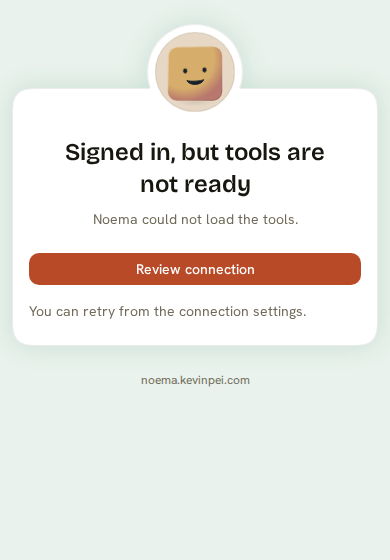
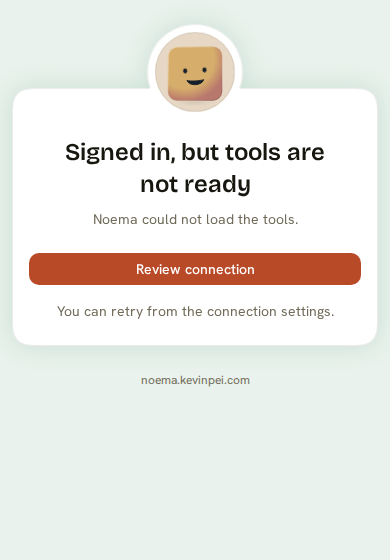
docs: center supporting notes in flow mocks

Changed region(s): [[0.0615, 0.5464, 0.8615, 0.5768]]

diff --git a/docs/plans/2026-09-04-supporting-ui/mocks.css b/docs/plans/2026-09-04-supporting-ui/mocks.css
@@ -50,7 +50,7 @@ h2 { font: var(--text-heading-4-weight) var(--text-heading-4-size)/var(--text-he
 /* Button visuals come from Astryx. This selector controls layout only. */
 .actions > .astryx-button, .decision-actions > .astryx-button { width: 100%; min-width: 0; }
 .decision-actions { display: grid; grid-template-columns: 1fr 1fr; gap: var(--spacing-2); }
-.note { color: var(--muted-foreground); }
+.note { color: var(--muted-foreground); text-align: center; text-wrap: pretty; }
 .status { display: flex; align-items: center; gap: var(--spacing-3); padding: var(--spacing-4); background: var(--surface-sunken); border-radius: var(--radius-element); }
 .status.success { background: var(--noema-pine-50); color: var(--noema-pine-700); }
 .status.error { background: var(--noema-red-100); color: var(--noema-red-700); }

diff --git a/docs/plans/2026-09-04-supporting-ui/validation.md b/docs/plans/2026-09-04-supporting-ui/validation.md
@@ -35,6 +35,7 @@ Scope: the saved design gallery. These results do not certify the production flo
 - One parent drop shadow followed the combined silhouette. The avatar and card had no separate box shadows.
 - The exposed avatar arc used the same one-pixel `border-subtle` border as the card. Its lower arc stayed hidden.
 - Titles, introductions, and setup steps were centered beneath the avatar and used `text-wrap: pretty`.
+- Standalone supporting notes were centered and used `text-wrap: pretty`, including the Codex sign-in continuation note.
 - All 33 subheadings fit one line at desktop, 390-pixel, and 320-pixel preview widths with the default text size.
 - Consent warnings and recovery instructions remained explicit. Narrow layouts and larger text can still wrap naturally.
 - Action controls used markup rendered from Astryx Button, with its default padding, 32-pixel height, and Noema theme.

diff --git a/docs/plans/2026-09-04-supporting-ui/README.md b/docs/plans/2026-09-04-supporting-ui/README.md
@@ -52,6 +52,7 @@ Use the existing setup frame, connection surfaces, and Astryx controls during im
 - Center the avatar and heading group, including the title, introduction, and setup step. Keep form content left aligned.
 - Keep subheadings to one short sentence that fits one line at the normal card width.
 - Put necessary instructions and consequences beside their controls. Keep consent warnings explicit.
+- Center standalone supporting notes, including the text below action buttons. Keep field labels and detailed form content left aligned.
 - Use `text-wrap: pretty` for centered text. Allow wrapping on narrow screens or with larger text; do not truncate it.
 - Show the full 80-pixel avatar with an 8-pixel white outline that joins the card. Do not hide it behind the card.
 - Give the exposed avatar outline the card’s same thin `border-subtle` border. Hide the lower arc inside the card.
